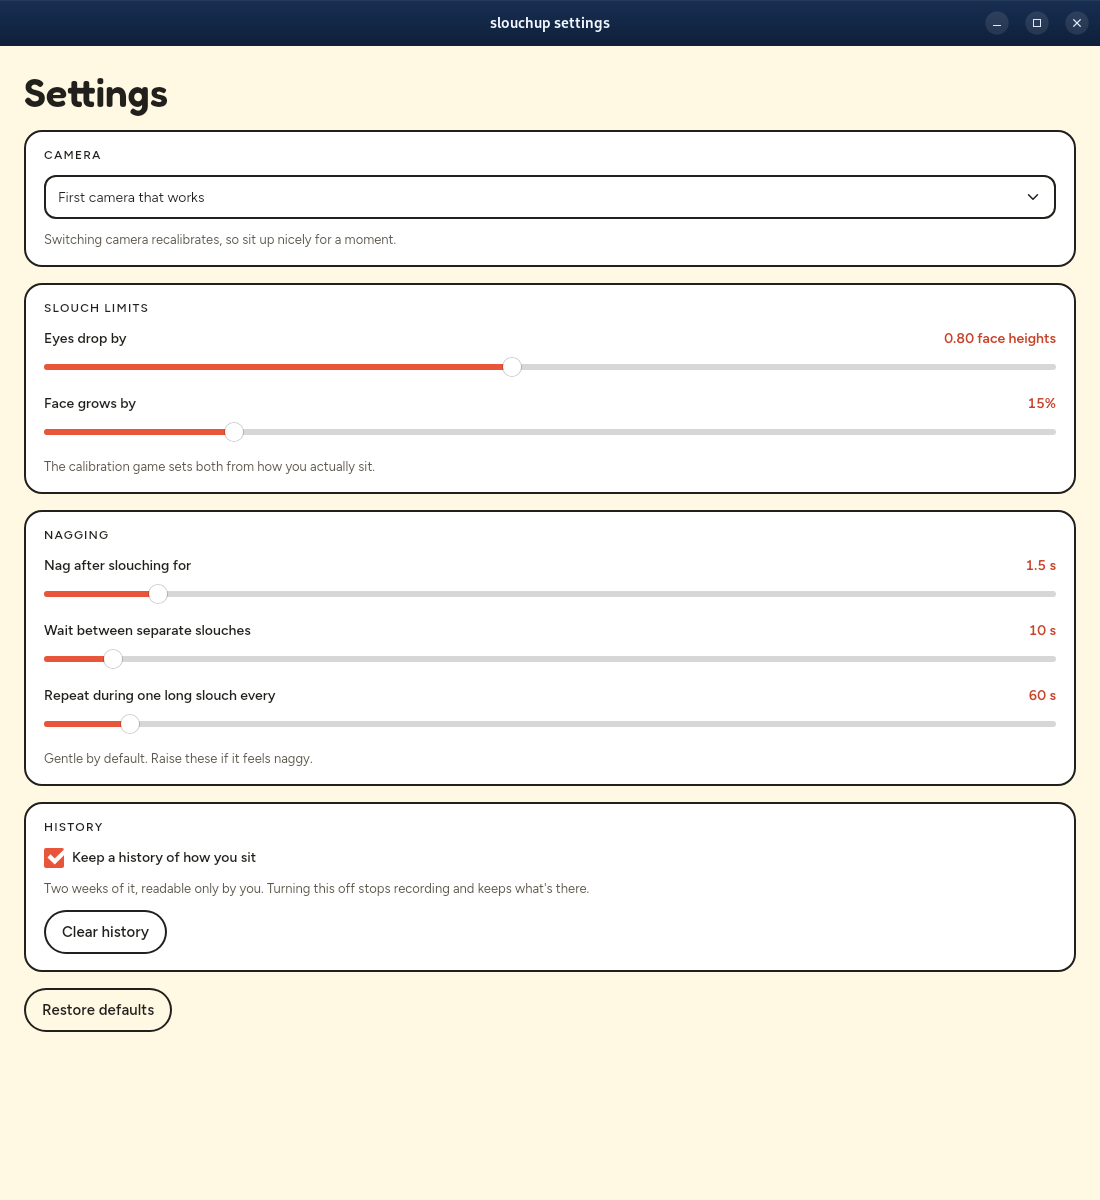
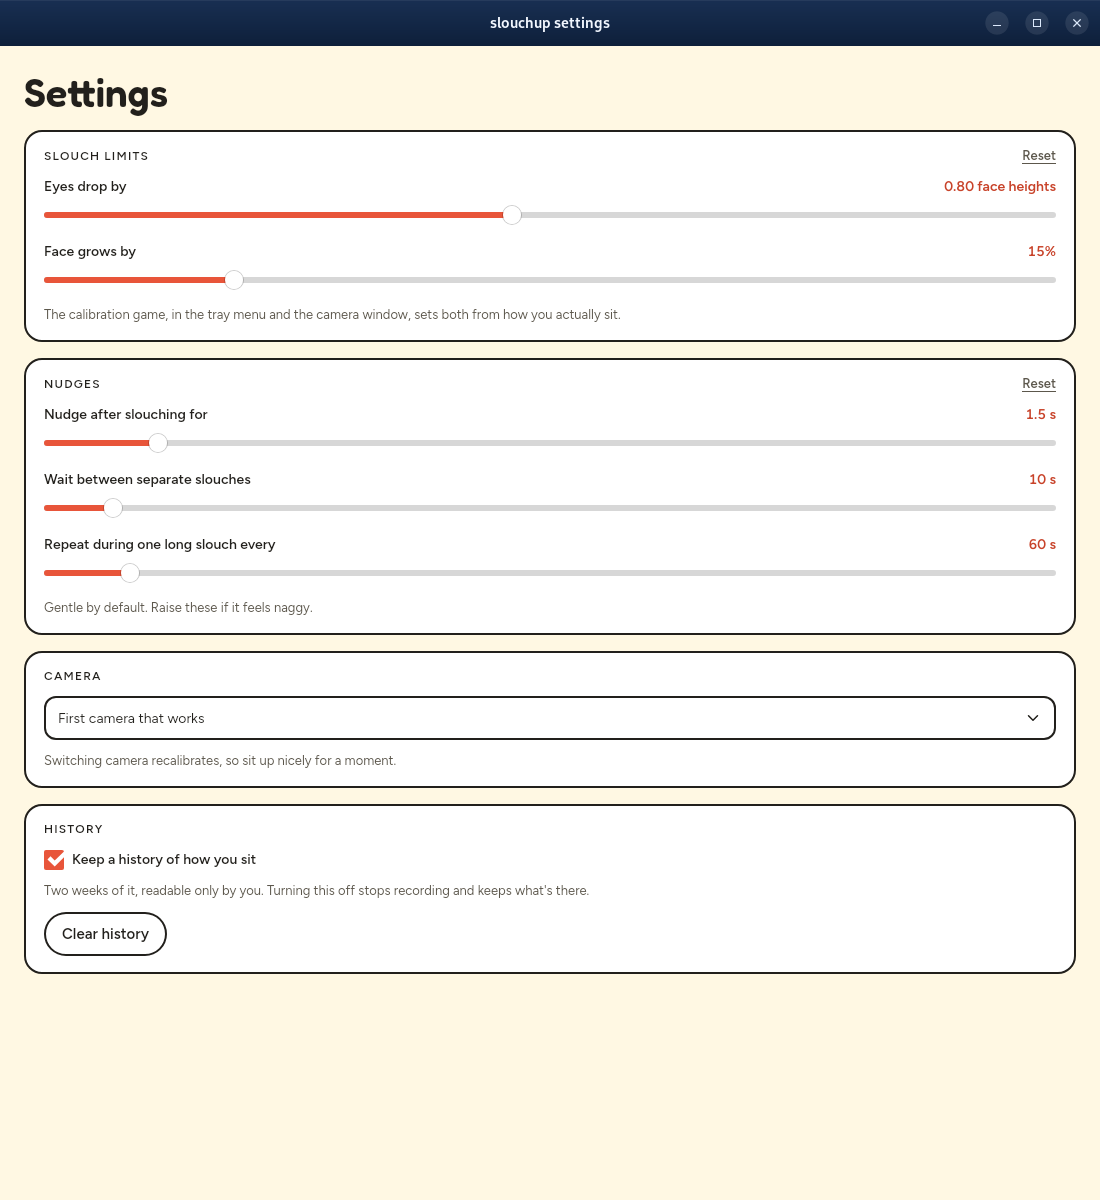
Settings sections reordered by how often they change
- Slouch limits and nudges first, camera and history after
- Each section resets on its own, in place of one Restore defaults
- "Nagging" renamed Nudges, matching the app's word elsewhere

Changed region(s): [[0.0, 0.1233, 0.9891, 0.8633], [0.4327, 0.74, 0.4636, 0.7708], [0.34, 0.74, 0.3709, 0.7708]]

diff --git a/crates/slouch-app/src/style.css b/crates/slouch-app/src/style.css
@@ -203,6 +203,19 @@ html, body {
   border-radius: var(--radius-md);
   background: var(--surface-raised);
 }
+.section-heading { display: flex; align-items: baseline; justify-content: space-between; }
+.text-button {
+  padding: 0;
+  border: 0;
+  background: none;
+  color: var(--text-muted);
+  font: 600 13px var(--font-body);
+  text-decoration: underline;
+  text-underline-offset: 3px;
+  cursor: pointer;
+}
+.text-button:hover { color: var(--text); }
+.text-button:focus-visible { outline: 3px solid var(--sky); outline-offset: 2px; border-radius: 4px; }
 .settings h2 { margin: 0; font: 600 12px/1.3 var(--font-body); letter-spacing: 0.1em; text-transform: uppercase; }
 /* Without appearance: none, GTK draws its own control, so the arrow is drawn back in. */
 .settings select {

diff --git a/crates/slouch-app/src/settings.rs b/crates/slouch-app/src/settings.rs
@@ -62,23 +62,13 @@ pub fn SettingsPage(handle: SettingsHandle, initial: Settings) -> Element {
             h1 { "Settings" }
 
             section {
-                h2 { "Camera" }
-                select {
-                    onchange: move |event| choose_camera(event.value()),
-                    option { value: "", selected: chosen.camera.is_none(), "First camera that works" }
-                    for camera in cameras {
-                        option {
-                            value: "{camera.id}",
-                            selected: chosen.camera.as_deref() == Some(camera.id.as_str()),
-                            "{camera.name} ({camera.id})"
-                        }
-                    }
+                SectionHeading {
+                    title: "Slouch limits",
+                    onreset: move |_| {
+                        thresholds.set(Thresholds::default());
+                        send.call(Change::ResetLimits);
+                    },
                 }
-                p { class: "hint", "Switching camera recalibrates, so sit up nicely for a moment." }
-            }
-
-            section {
-                h2 { "Slouch limits" }
                 Slider {
                     label: "Eyes drop by",
                     shown: format!("{:.2} face heights", limits.drop),
@@ -91,13 +81,26 @@ pub fn SettingsPage(handle: SettingsHandle, initial: Settings) -> Element {
                     min: 0.05, max: 0.6, step: 0.01, value: limits.lean as f64,
                     onchange: move |v: f64| { thresholds.with_mut(|t| t.lean = v as f32); send.call(Change::Lean(v as f32)) },
                 }
-                p { class: "hint", "The calibration game sets both from how you actually sit." }
+                p { class: "hint",
+                    "The calibration game, in the tray menu and the camera window, sets both from how you actually sit."
+                }
             }
 
             section {
-                h2 { "Nagging" }
+                SectionHeading {
+                    title: "Nudges",
+                    onreset: move |_| {
+                        preferences.with_mut(|p| {
+                            let defaults = Preferences::default();
+                            p.grace = defaults.grace;
+                            p.min_gap = defaults.min_gap;
+                            p.cooldown = defaults.cooldown;
+                        });
+                        send.call(Change::ResetNudges);
+                    },
+                }
                 Slider {
-                    label: "Nag after slouching for",
+                    label: "Nudge after slouching for",
                     shown: format!("{:.1} s", chosen.grace),
                     min: 0.5, max: 10.0, step: 0.5, value: chosen.grace,
                     onchange: move |v| { preferences.with_mut(|p| p.grace = v); send.call(Change::Grace(v)) },
@@ -115,6 +118,22 @@ pub fn SettingsPage(handle: SettingsHandle, initial: Settings) -> Element {
                     onchange: move |v| { preferences.with_mut(|p| p.cooldown = v); send.call(Change::Cooldown(v)) },
                 }
                 p { class: "hint", "Gentle by default. Raise these if it feels naggy." }
+            }
+
+            section {
+                h2 { "Camera" }
+                select {
+                    onchange: move |event| choose_camera(event.value()),
+                    option { value: "", selected: chosen.camera.is_none(), "First camera that works" }
+                    for camera in cameras {
+                        option {
+                            value: "{camera.id}",
+                            selected: chosen.camera.as_deref() == Some(camera.id.as_str()),
+                            "{camera.name} ({camera.id})"
+                        }
+                    }
+                }
+                p { class: "hint", "Switching camera recalibrates, so sit up nicely for a moment." }
             }
 
             section {
@@ -147,23 +166,17 @@ pub fn SettingsPage(handle: SettingsHandle, initial: Settings) -> Element {
                     if cleared() { "History cleared" } else { "Clear history" }
                 }
             }
+        }
+    }
+}
 
-            div { class: "buttons",
-                button {
-                    class: "button",
-                    onclick: move |_| {
-                        let defaults = Preferences {
-                            camera: preferences().camera,
-                            keep_history: preferences().keep_history,
-                            ..Preferences::default()
-                        };
-                        preferences.set(defaults);
-                        thresholds.set(Thresholds::default());
-                        send.call(Change::Defaults);
-                    },
-                    "Restore defaults"
-                }
-            }
+/// A section's title, with a button putting just that section back to its defaults.
+#[component]
+fn SectionHeading(title: &'static str, onreset: EventHandler<MouseEvent>) -> Element {
+    rsx! {
+        div { class: "section-heading",
+            h2 { "{title}" }
+            button { class: "text-button", onclick: move |event| onreset.call(event), "Reset" }
         }
     }
 }

diff --git a/crates/slouch-app/src/engine.rs b/crates/slouch-app/src/engine.rs
@@ -60,7 +60,10 @@ pub enum Change {
     MinGap(f64),
     Cooldown(f64),
     KeepHistory(bool),
-    Defaults,
+    /// Both slouch limits back to their defaults.
+    ResetLimits,
+    /// The nudge timings back to their defaults.
+    ResetNudges,
 }
 
 /// What the UI draws. Positions are in camera-frame pixels.
@@ -415,7 +418,13 @@ impl Engine {
             Change::MinGap(gap) => settings.min_gap = gap,
             Change::Cooldown(cooldown) => settings.cooldown = cooldown,
             Change::KeepHistory(keep) => self.recording = keep,
-            Change::Defaults => *settings = Settings::default(),
+            Change::ResetLimits => settings.thresholds = Settings::default().thresholds,
+            Change::ResetNudges => {
+                let defaults = Settings::default();
+                settings.grace = defaults.grace;
+                settings.min_gap = defaults.min_gap;
+                settings.cooldown = defaults.cooldown;
+            }
         }
         if let Some(tracker) = &mut self.tracker {
             tracker.set_settings(self.settings);
